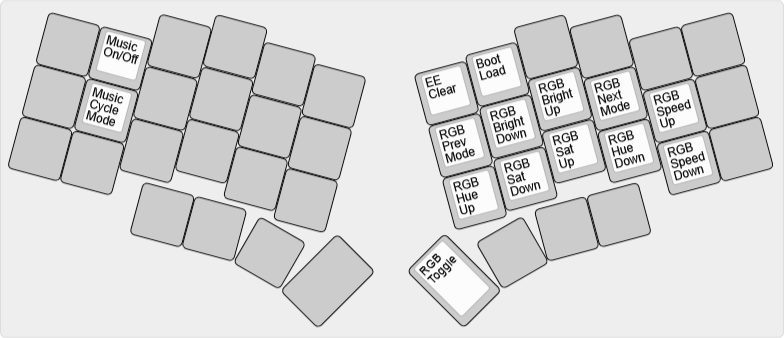
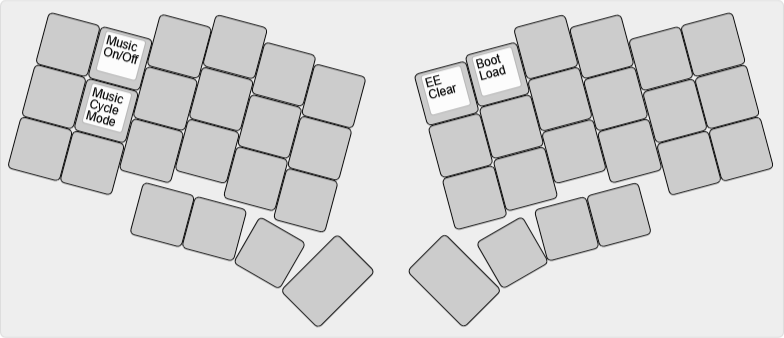
Disable more hidden RGB underglow

Changed region(s): [[0.551, 0.2071, 0.9184, 0.6509], [0.5204, 0.7101, 0.6429, 0.9467]]

diff --git a/keyboards/yanghu/unicorne/keymaps/bcat/keymap.c b/keyboards/yanghu/unicorne/keymaps/bcat/keymap.c
@@ -31,9 +31,9 @@ const uint16_t PROGMEM keymaps[][MATRIX_ROWS][MATRIX_COLS] = {
     ),
     [LAYER_ADJUST] = LAYOUT(
         _______,  MU_TOGG,  _______,  _______,  _______,  _______,                      EE_CLR,   QK_BOOT,  _______,  _______,  _______,  _______,
-        _______,  MU_NEXT,  _______,  _______,  _______,  _______,                      RGB_RMOD, RGB_VAD,  RGB_VAI,  RGB_MOD,  RGB_SPI,  _______,
-        _______,  _______,  _______,  _______,  _______,  _______,                      RGB_HUI,  RGB_SAD,  RGB_SAI,  RGB_HUD,  RGB_SPD,  _______,
-                                      _______,  _______,  _______,  _______,  RGB_TOG,  _______,  _______,  _______
+        _______,  MU_NEXT,  _______,  _______,  _______,  _______,                      _______,  _______,  _______,  _______,  _______,  _______,
+        _______,  _______,  _______,  _______,  _______,  _______,                      _______,  _______,  _______,  _______,  _______,  _______,
+                                      _______,  _______,  _______,  _______,  _______,  _______,  _______,  _______
     ),
     // clang-format on
 };
